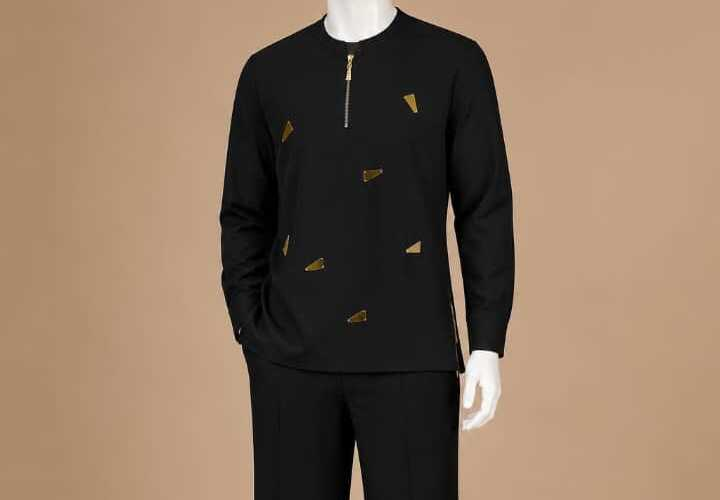
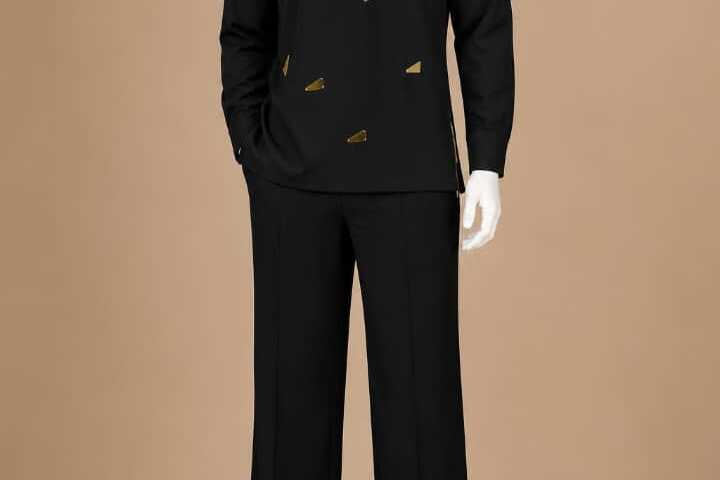
Fix hero photo crop and View Gallery button contrast

diff --git a/index.html b/index.html
@@ -522,6 +522,13 @@
   }
   @media (min-width: 600px) {
     .home-hero-full__actions { flex-direction: row; justify-content: center; }
+  .home-hero-full__actions .btn--outline {
+    border-color: rgba(255,255,255,0.75);
+    color: #fff;
+  }
+  .home-hero-full__actions .btn--outline:hover {
+    background: rgba(255,255,255,0.12);
+  }
   }
 </style>
 </head>
